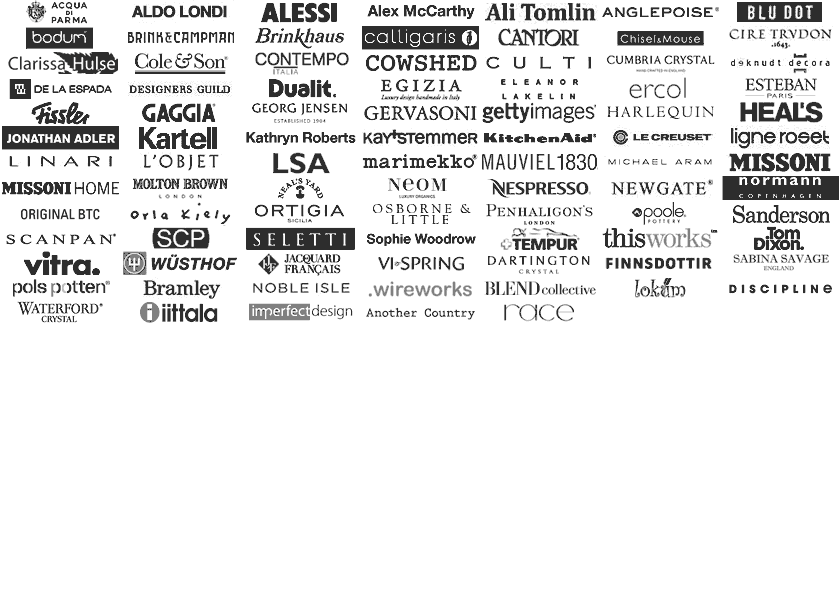
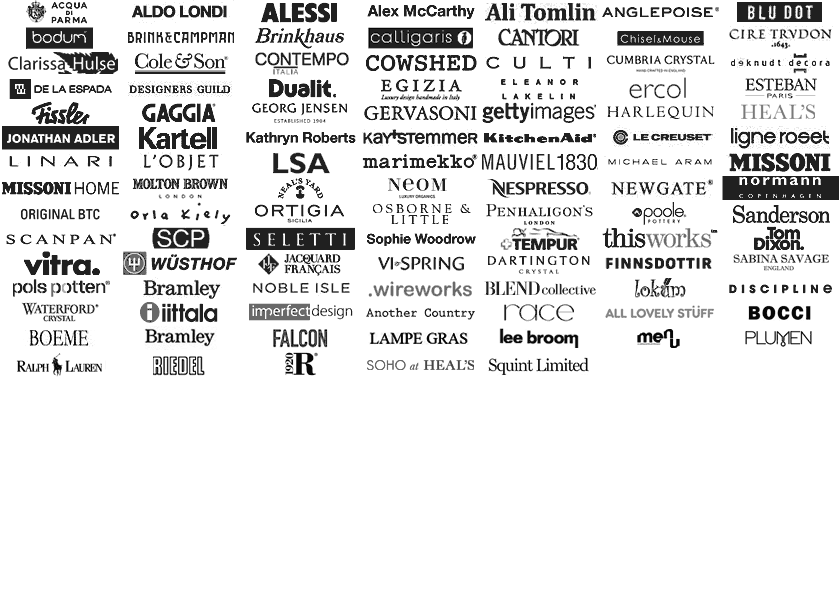
update brands on nav

diff --git a/templates/cats/topnavcategories/topnavcategories.html b/templates/cats/topnavcategories/topnavcategories.html
@@ -788,102 +788,102 @@
 <div id="boxmenu_brands">
 <div class="alessi" style="margin-top:10px;"><div class="hoverover"><a href="<venda_dispview icat=brand_alessi>" style="height: 13px;"></a></div></div></div>
 <div id="boxmenu_brands">
-<div class="cantori" style="margin-top:10px;"><div class="hoverover"><a href="<venda_dispview icat=brand_cantori>" style="height: 13px;"></a></div></div></div>
+<div class="boeme" style="margin-top:10px;"><div class="hoverover"><a href="<venda_dispview icat=brand_boeme>" style="height: 13px;"></a></div></div></div>
 <div id="boxmenu_brands">
-<div class="designers_guild" style="margin-top:10px;"><div class="hoverover"><a href="<venda_dispview icat=brand_designers_guild>" style="height: 13px;"></a></div></div></div>  
+<div class="ercol" style="margin-top:10px;"><div class="hoverover"><a href="<venda_dispview icat=brand_ercol>" style="height: 13px;"></a></div></div></div>  
 <div id="boxmenu_brands">
-<div class="harlequin" style="margin-top:10px;"><div class="hoverover"><a href="<venda_dispview icat=brand_harlequin>" style="height: 13px;"></a></div></div></div>
+<div class="lee_broom" style="margin-top:10px;"><div class="hoverover"><a href="<venda_dispview icat=brand_lee_broom>" style="height: 13px;"></a></div></div></div>
 <div id="boxmenu_brands">
-<div class="marimekko" style="margin-top:10px;"><div class="hoverover"><a href="<venda_dispview icat=brand_marimekko>" style="height: 13px;"></a></div></div></div>
+<div class="michael_aram" style="margin-top:10px;"><div class="hoverover"><a href="<venda_dispview icat=brand_michael_aram>" style="height: 13px;"></a></div></div></div>
 <div id="boxmenu_brands">
-<div class="another_country" style="margin-top:10px;"><div class="hoverover"><a href="<venda_dispview icat=brand_another_country>" style="height: 13px;"></a></div></div></div>
+<div class="fissler" style="margin-top:10px;"><div class="hoverover"><a href="<venda_dispview icat=brand_fissler>" style="height: 13px;"></a></div></div></div>
 <div id="boxmenu_brands">
-<div class="scanpan" style="margin-top:10px;"><div class="hoverover"><a href="<venda_dispview icat=brand_scanpan>" style="height: 13px;"></a></div></div></div>
+<div class="squint" style="margin-top:10px;"><div class="hoverover"><a href="<venda_dispview icat=brand_squint>" style="height: 13px;"></a></div></div></div>
 </div>   
 
 <div id="subcat_col_six_brands">
 <div id="boxmenu_brands">
-<div class="calligaris" style="margin-top:10px;"><div class="hoverover"><a href="<venda_dispview icat=brand_calligaris>" style="height: 13px;"></a></div></div></div>
+<div class="bocci" style="margin-top:10px;"><div class="hoverover"><a href="<venda_dispview icat=brand_bocci>" style="height: 13px;"></a></div></div></div>
 <div id="boxmenu_brands">
-<div class="deknudt_decora" style="margin-top:10px;"><div class="hoverover"><a href="<venda_dispview icat=brand_deknudt_decora>" style="height: 13px;"></a></div></div></div>
+<div class="designers_guild" style="margin-top:10px;"><div class="hoverover"><a href="<venda_dispview icat=brand_designers_guild>" style="height: 13px;"></a></div></div></div>
 <div id="boxmenu_brands">
-<div class="gervasoni" style="margin-top:10px;"><div class="hoverover"><a href="<venda_dispview icat=brand_gervasoni>" style="height: 13px;"></a></div></div></div>  
+<div class="lampe_gras" style="margin-top:10px;"><div class="hoverover"><a href="<venda_dispview icat=brand_lampe_gras>" style="height: 13px;"></a></div></div></div>  
 <div id="boxmenu_brands">
-<div class="lsa" style="margin-top:10px;"><div class="hoverover"><a href="<venda_dispview icat=brand_lsa>" style="height: 13px;"></a></div></div></div>
+<div class="menu" style="margin-top:10px;"><div class="hoverover"><a href="<venda_dispview icat=brand_menu>" style="height: 13px;"></a></div></div></div>
 <div id="boxmenu_brands">
-<div class="nespresso" style="margin-top:10px;"><div class="hoverover"><a href="<venda_dispview icat=brand_nespresso>" style="height: 13px;"></a></div></div></div>        
+<div class="race" style="margin-top:10px;"><div class="hoverover"><a href="<venda_dispview icat=brand_race>" style="height: 13px;"></a></div></div></div>        
 <div id="boxmenu_brands">
-<div class="sanderson" style="margin-top:10px;"><div class="hoverover"><a href="<venda_dispview icat=brand_sanderson>" style="height: 13px;"></a></div></div></div>
+<div class="soho_at_heals" style="margin-top:10px;"><div class="hoverover"><a href="<venda_dispview icat=brand_soho_at_heals>" style="height: 13px;"></a></div></div></div>
 <div id="boxmenu_brands">
-<div class="vi_spring" style="margin-top:10px;"><div class="hoverover"><a href="<venda_dispview icat=brand_vi-spring>" style="height: 13px;"></a></div></div></div>       
+<div class="wusthof" style="margin-top:10px;"><div class="hoverover"><a href="<venda_dispview icat=brand_wusthof>" style="height: 13px;"></a></div></div></div>       
 </div>  
 
 <div id="subcat_col_five_brands">
 <div id="boxmenu_brands">
-<div class="brinkhaus" style="margin-top:10px;"><div class="hoverover"><a href="<venda_dispview icat=brand_brinkhaus>" style="height: 13px;"></a></div></div></div> 
+<div class="blu_dot" style="margin-top:10px;"><div class="hoverover"><a href="<venda_dispview icat=brand_blu_dot>" style="height: 13px;"></a></div></div></div> 
 <div id="boxmenu_brands">
 <div class="de_la_espada" style="margin-top:10px;"><div class="hoverover"><a href="<venda_dispview icat=brand_de_la_espada>" style="height: 13px;"></a></div></div></div>
 <div id="boxmenu_brands">
-<div class="gaggia" style="margin-top:10px;"><div class="hoverover"><a href="<venda_dispview icat=brand_gaggia>" style="height: 13px;"></a></div></div></div>
+<div class="kitchenaid" style="margin-top:10px;"><div class="hoverover"><a href="<venda_dispview icat=brand_kitchenaid>" style="height: 13px;"></a></div></div></div>
 <div id="boxmenu_brands">
-<div class="ligne_roset" style="margin-top:10px;"><div class="hoverover"><a href="<venda_dispview icat=brand_ligne_roset>" style="height: 13px;"></a></div></div></div>                
+<div class="mauviel" style="margin-top:10px;"><div class="hoverover"><a href="<venda_dispview icat=brand_mauviel>" style="height: 13px;"></a></div></div></div>                
 <div id="boxmenu_brands">
-<div class="newgate" style="margin-top:10px;"><div class="hoverover"><a href="<venda_dispview icat=brand_newgate>" style="height: 13px;"></a></div></div></div> 
+<div class="plumen" style="margin-top:10px;"><div class="hoverover"><a href="<venda_dispview icat=brand_plumen>" style="height: 13px;"></a></div></div></div> 
 <div id="boxmenu_brands">
-<div class="penhaligons" style="margin-top:10px;"><div class="hoverover"><a href="<venda_dispview icat=brand_penhaligons>" style="height: 13px;"></a></div></div></div> 
+<div class="scp" style="margin-top:10px;"><div class="hoverover"><a href="<venda_dispview icat=brand_scp>" style="height: 13px;"></a></div></div></div> 
 <div id="boxmenu_brands">
 <div class="vitra" style="margin-top:10px;"><div class="hoverover"><a href="<venda_dispview icat=brand_vitra>" style="height: 13px;"></a></div></div></div>   
 </div> 
 
 <div id="subcat_col_four_brands"> 
 <div id="boxmenu_brands">
-<div class="blu_dot" style="margin-top:10px;"><div class="hoverover"><a href="<venda_dispview icat=brand_blu_dot>" style="height: 13px;"></a></div></div></div>
+<div class="another_country" style="margin-top:10px;"><div class="hoverover"><a href="<venda_dispview icat=brand_another_country>" style="height: 13px;"></a></div></div></div>
 <div id="boxmenu_brands">
-<div class="contempo" style="margin-top:10px;"><div class="hoverover"><a href="<venda_dispview icat=brand_contempo>" style="height: 13px;"></a></div></div></div> 
+<div class="cantori" style="margin-top:10px;"><div class="hoverover"><a href="<venda_dispview icat=brand_cantori>" style="height: 13px;"></a></div></div></div> 
 <div id="boxmenu_brands">
-<div class="fissler" style="margin-top:10px;"><div class="hoverover"><a href="<venda_dispview icat=brand_fissler>" style="height: 13px;"></a></div></div></div>
+<div class="kartell" style="margin-top:10px;"><div class="hoverover"><a href="<venda_dispview icat=brand_kartell>" style="height: 13px;"></a></div></div></div>
 <div id="boxmenu_brands">
-<div class="le_jacquard_francais" style="margin-top:10px;"><div class="hoverover"><a href="<venda_dispview icat=brand_jacquard_francais>" style="height: 13px;"></a></div></div></div>
+<div class="marimekko" style="margin-top:10px;"><div class="hoverover"><a href="<venda_dispview icat=brand_marimekko>" style="height: 13px;"></a></div></div></div>
 <div id="boxmenu_brands">
-<div class="missoni_home" style="margin-top:10px;"><div class="hoverover"><a href="<venda_dispview icat=brand_missoni_home>" style="height: 13px;"></a></div></div></div>
+<div class="newgate" style="margin-top:10px;"><div class="hoverover"><a href="<venda_dispview icat=brand_newgate>" style="height: 13px;"></a></div></div></div>
 <div id="boxmenu_brands">
-<div class="osborne_and_little" style="margin-top:10px;"><div class="hoverover"><a href="<venda_dispview icat=brand_osborne_and_little>" style="height: 13px;"></a></div></div></div>
+<div class="scanpan" style="margin-top:10px;"><div class="hoverover"><a href="<venda_dispview icat=brand_scanpan>" style="height: 13px;"></a></div></div></div>
 <div id="boxmenu_brands">
-<div class="tom_dixon" style="margin-top:10px;"><div class="hoverover"><a href="<venda_dispview icat=brand_tom_dixon>" style="height: 13px;"></a></div></div></div>
+<div class="vi_spring" style="margin-top:10px;"><div class="hoverover"><a href="<venda_dispview icat=brand_vi_spring>" style="height: 13px;"></a></div></div></div>
 </div>
 
 <div id="subcat_col_three_brands">
 <div id="boxmenu_brands">
 <div class="anglepoise" style="margin-top:10px;"><div class="hoverover"><a href="<venda_dispview icat=brand_anglepoise>" style="height: 13px;"></a></div></div></div>
 <div id="boxmenu_brands">
-<div class="cole_and_son" style="margin-top:10px;"><div class="hoverover"><a href="<venda_dispview icat=brand_cole_and_son>" style="height: 13px;"></a></div></div></div> 
+<div class="calligaris" style="margin-top:10px;"><div class="hoverover"><a href="<venda_dispview icat=brand_calligaris>" style="height: 13px;"></a></div></div></div> 
 <div id="boxmenu_brands">
-<div class="ercol" style="margin-top:10px;"><div class="hoverover"><a href="<venda_dispview icat=brand_ercol>" style="height: 13px;"></a></div></div></div> 
+<div class="ittalia" style="margin-top:10px;"><div class="hoverover"><a href="<venda_dispview icat=brand_ittalia>" style="height: 13px;"></a></div></div></div> 
 <div id="boxmenu_brands">
-<div class="kitchenaid" style="margin-top:10px;"><div class="hoverover"><a href="<venda_dispview icat=brand_kitchenaid>" style="height: 13px;"></a></div></div></div>  
+<div class="lsa" style="margin-top:10px;"><div class="hoverover"><a href="<venda_dispview icat=brand_lsa>" style="height: 13px;"></a></div></div></div>  
 <div id="boxmenu_brands">
-<div class="michael_aram" style="margin-top:10px;"><div class="hoverover"><a href="<venda_dispview icat=brand_michael_aram>" style="height: 13px;"></a></div></div></div> 
+<div class="molton_brown" style="margin-top:10px;"><div class="hoverover"><a href="<venda_dispview icat=brand_molton_brown>" style="height: 13px;"></a></div></div></div> 
 <div id="boxmenu_brands">
-<div class="race" style="margin-top:10px;"><div class="hoverover"><a href="<venda_dispview icat=brand_race_furniture>" style="height: 13px;"></a></div></div></div>
+<div class="riva_1920" style="margin-top:10px;"><div class="hoverover"><a href="<venda_dispview icat=brand_riva_1920>" style="height: 13px;"></a></div></div></div>
 <div id="boxmenu_brands">
-<div class="tempur" style="margin-top:10px;"><div class="hoverover"><a href="<venda_dispview icat=brand_tempur>" style="height: 13px;"></a></div></div></div>
+<div class="tom_dixon" style="margin-top:10px;"><div class="hoverover"><a href="<venda_dispview icat=brand_tom_dixon>" style="height: 13px;"></a></div></div></div>
 </div>
             
 <div id="subcat_col_two_brands">           
 <div id="boxmenu_brands">
-<div class="alex_mccarthy" style="margin-top:10px;"><div class="hoverover"><a href="<venda_dispview icat=brand_alex_mccarthy>" style="height: 13px;"></a></div></div></div>
+<div class="all_lovely_stuff" style="margin-top:10px;"><div class="hoverover"><a href="<venda_dispview icat=brand_all_lovely_stuff>" style="height: 13px;"></a></div></div></div>
 <div id="boxmenu_brands">
-<div class="clarissa_hulse" style="margin-top:10px;"><div class="hoverover"><a href="<venda_dispview icat=brand_clarissa_hulse>" style="height: 13px;"></a></div></div></div>  
+<div class="bramley" style="margin-top:10px;"><div class="hoverover"><a href="<venda_dispview icat=brand_bramley>" style="height: 13px;"></a></div></div></div>  
 <div id="boxmenu_brands">
-<div class="dualit" style="margin-top:10px;"><div class="hoverover"><a href="<venda_dispview icat=dualit>" style="height: 13px;"></a></div></div></div>
+<div class="falcon" style="margin-top:10px;"><div class="hoverover"><a href="<venda_dispview icat=falcon>" style="height: 13px;"></a></div></div></div>
 <div id="boxmenu_brands">
-<div class="kartell" style="margin-top:10px;"><div class="hoverover"><a href="<venda_dispview icat=brand_kartell>" style="height: 13px;"></a></div></div></div>
+<div class="ligne_roset" style="margin-top:10px;"><div class="hoverover"><a href="<venda_dispview icat=brand_ligne_roset>" style="height: 13px;"></a></div></div></div>
 <div id="boxmenu_brands">
-<div class="mauviel" style="margin-top:10px;"><div class="hoverover"><a href="<venda_dispview icat=brand_mauviel>" style="height: 13px;"></a></div></div></div> 
+<div class="missoni_home" style="margin-top:10px;"><div class="hoverover"><a href="<venda_dispview icat=brand_missoni_home>" style="height: 13px;"></a></div></div></div> 
 <div id="boxmenu_brands">
-<div class="original_btc" style="margin-top:10px;"><div class="hoverover"><a href="<venda_dispview icat=brand_original_btc>" style="height: 13px;"></a></div></div></div>
+<div class="riedel" style="margin-top:10px;"><div class="hoverover"><a href="<venda_dispview icat=brand_riedel>" style="height: 13px;"></a></div></div></div>
 <div id="boxmenu_brands">
-<div class="scp" style="margin-top:10px;"><div class="hoverover"><a href="<venda_dispview icat=brand_scp>" style="height: 13px;"></a></div></div></div>
+<div class="tempur" style="margin-top:10px;"><div class="hoverover"><a href="<venda_dispview icat=brand_tempur>" style="height: 13px;"></a></div></div></div>
 </div>
 
 <div id="menubase" style="float:left;"><a href="<venda_dispview icat=shopbybrand>">View All Brands</a></div>

diff --git a/resources/css/topnavstyle.css b/resources/css/topnavstyle.css
@@ -282,7 +282,7 @@ ul#topnav li div.brands span{height:362px;left:0;top: 28px; padding:1%; width:98
 .getty_images {background:url(../images/topnav/topnav-brands.png) -480px -100px;}
 .harlequin {background:url(../images/topnav/topnav-brands.png) -600px -100px;}
 .heals {background:url(../images/topnav/topnav-brands.png) -720px -100px;}
-.iittala {background:url(../images/topnav/topnav-brands.png) -120px -300px;}
+.ittalia {background:url(../images/topnav/topnav-brands.png) -120px -300px;}
 .imperfect_design {background:url(../images/topnav/topnav-brands.png) -240px -300px;}
 .jonathan_adler {background:url(../images/topnav/topnav-brands.png) 0 -125px;}
 .kartell {background:url(../images/topnav/topnav-brands.png) -120px -125px;}
@@ -328,7 +328,7 @@ ul#topnav li div.brands span{height:362px;left:0;top: 28px; padding:1%; width:98
 .scanpan {background:url(../images/topnav/topnav-brands.png) 0 -225px;}
 .scp {background:url(../images/topnav/topnav-brands.png) -120px -225px;}
 .soho_at_heals {background:url(../images/topnav/topnav-brands.png) -360px -350px;}
-.quint {background:url(../images/topnav/topnav-brands.png) -480px -350px;}
+.squint {background:url(../images/topnav/topnav-brands.png) -480px -350px;}
 .sophie_woodrow {background:url(../images/topnav/topnav-brands.png) -360px -225px;}
 .tempur {background:url(../images/topnav/topnav-brands.png) -480px -225px;}
 .this_works {background:url(../images/topnav/topnav-brands.png) -600px -225px;}

diff --git a/resources/css/mobile/base.css b/resources/css/mobile/base.css
@@ -1435,16 +1435,12 @@ padding: 3% 0;
 	width: 100%;
 }
 .productdetail .socialButtons {
-	float: left;
-	height: 28px;
-	line-height: 28px;
-	padding: 4px 0;
-	text-transform: uppercase;
-	width: 51%;
 	font-size: 0.9em;
 	width: 100%;
 }
-}
+
+.email-link, .print-link, .twitter-link, .facebook-link, .pinterest-link, .google-plus-link {float:left; margin:1%;}
+
 .socialButtons {width:99%;}
 .productdetail .socialButtons span {
 	padding: 0 0 0 3px;
@@ -1482,8 +1478,11 @@ padding: 3% 0;
 	height: 27px;
 	width: 30px;
 }
-.productdetail .addproductbox,
-.productdetail .emwbisLink {
+
+.productdetail .emwbisLink
+{width:96%; float:left; margin:2%;font-size: 1.2em;font-family: times;text-transform: uppercase;font-weight: normal;border-radius: 0.8em}
+
+.productdetail .addproductbox {
 	float: right;
 	font-size: 1.2em;
 	margin: 0 0 6%;
@@ -2348,6 +2347,9 @@ moz-border-radius: .8em;border-radius: .8em; font-family:"Times New Roman", Time
 .guestCheckout .ui-btn {
 	font-size: 1.1em;
 }
+
+ui-btn.ui-btn-up-a.ui-shadow.ui-btn-corner-all.ui-mini.ui-submit {border-radius:0.8em;}
+
 .loginForm .cancelButtonDiv .ui-btn-up-a {border:none;	
 	box-shadow: none;
 	font-weight: bold;

diff --git a/templates/invt/emailinstockMobile/emailinstockMobile.html b/templates/invt/emailinstockMobile/emailinstockMobile.html
@@ -20,7 +20,7 @@
 
 			<div class="ui-grid-a submitButton">
 				<div class="ui-block-a"><a class="cancel" href="<venda_dispview invt=<venda_invtref>>" data-theme="c" data-mini="true" data-role="button" style="color: #fff;"><venda_text id=mobile.button.cancel></a></div>
-				<div class="ui-block-b" style="float: right;font-style: italic;"><input type="submit" alt="<venda_text id=mobile.button.continue>" value="<venda_text id=mobile.button.continue>" class="submitEMWBIS" data-mini="true" data-role="button"></div>
+				<div class="ui-block-b" style="float: right;font-style: italic; width:40%;"><input type="submit" alt="<venda_text id=mobile.button.continue>" value="<venda_text id=mobile.button.continue>" class="submitEMWBIS" data-mini="true" data-role="button"></div>
 			</div>
 			</form>
 		</div><!-- /boxContent -->
